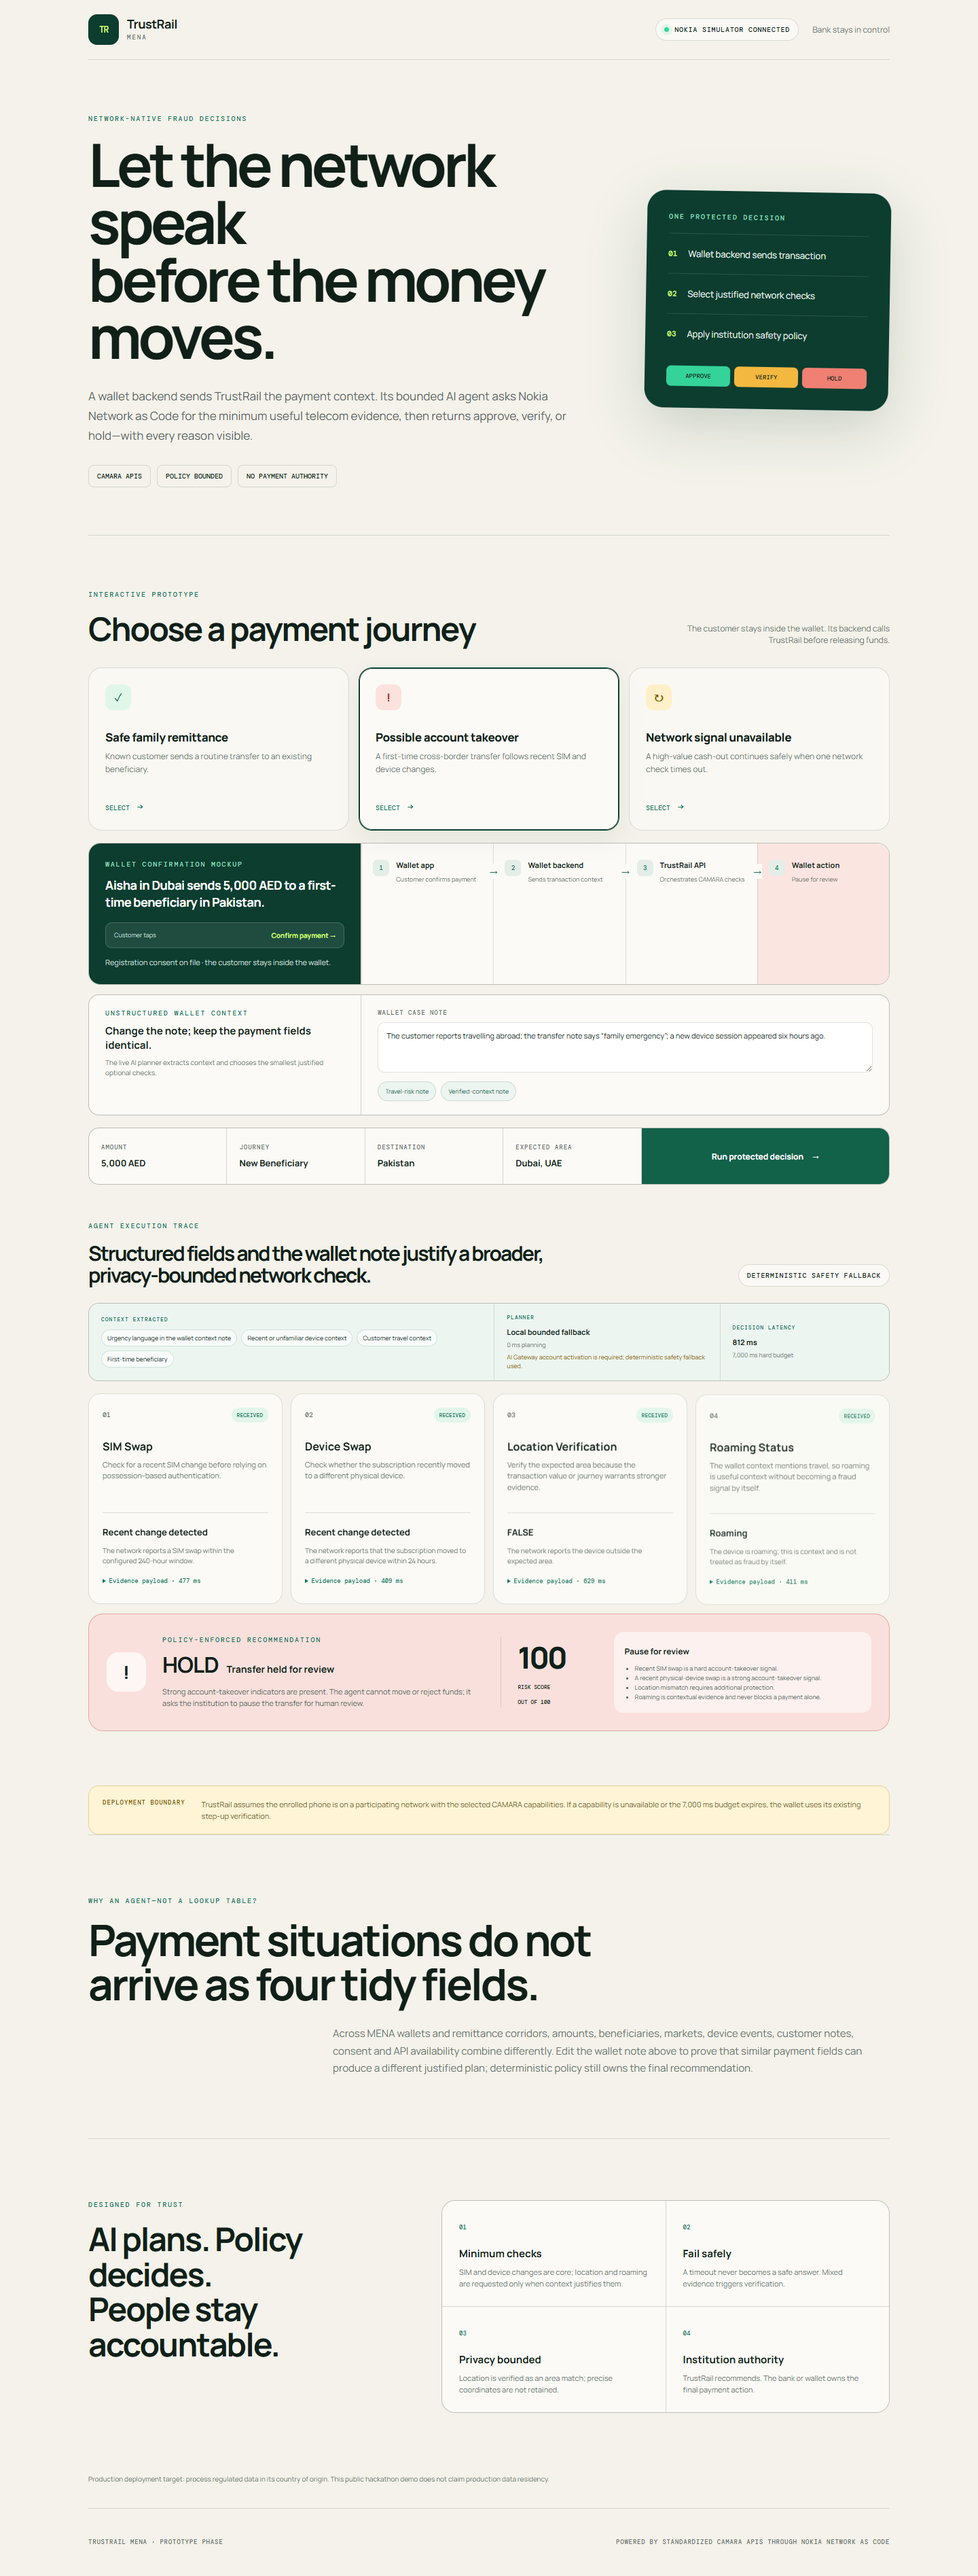
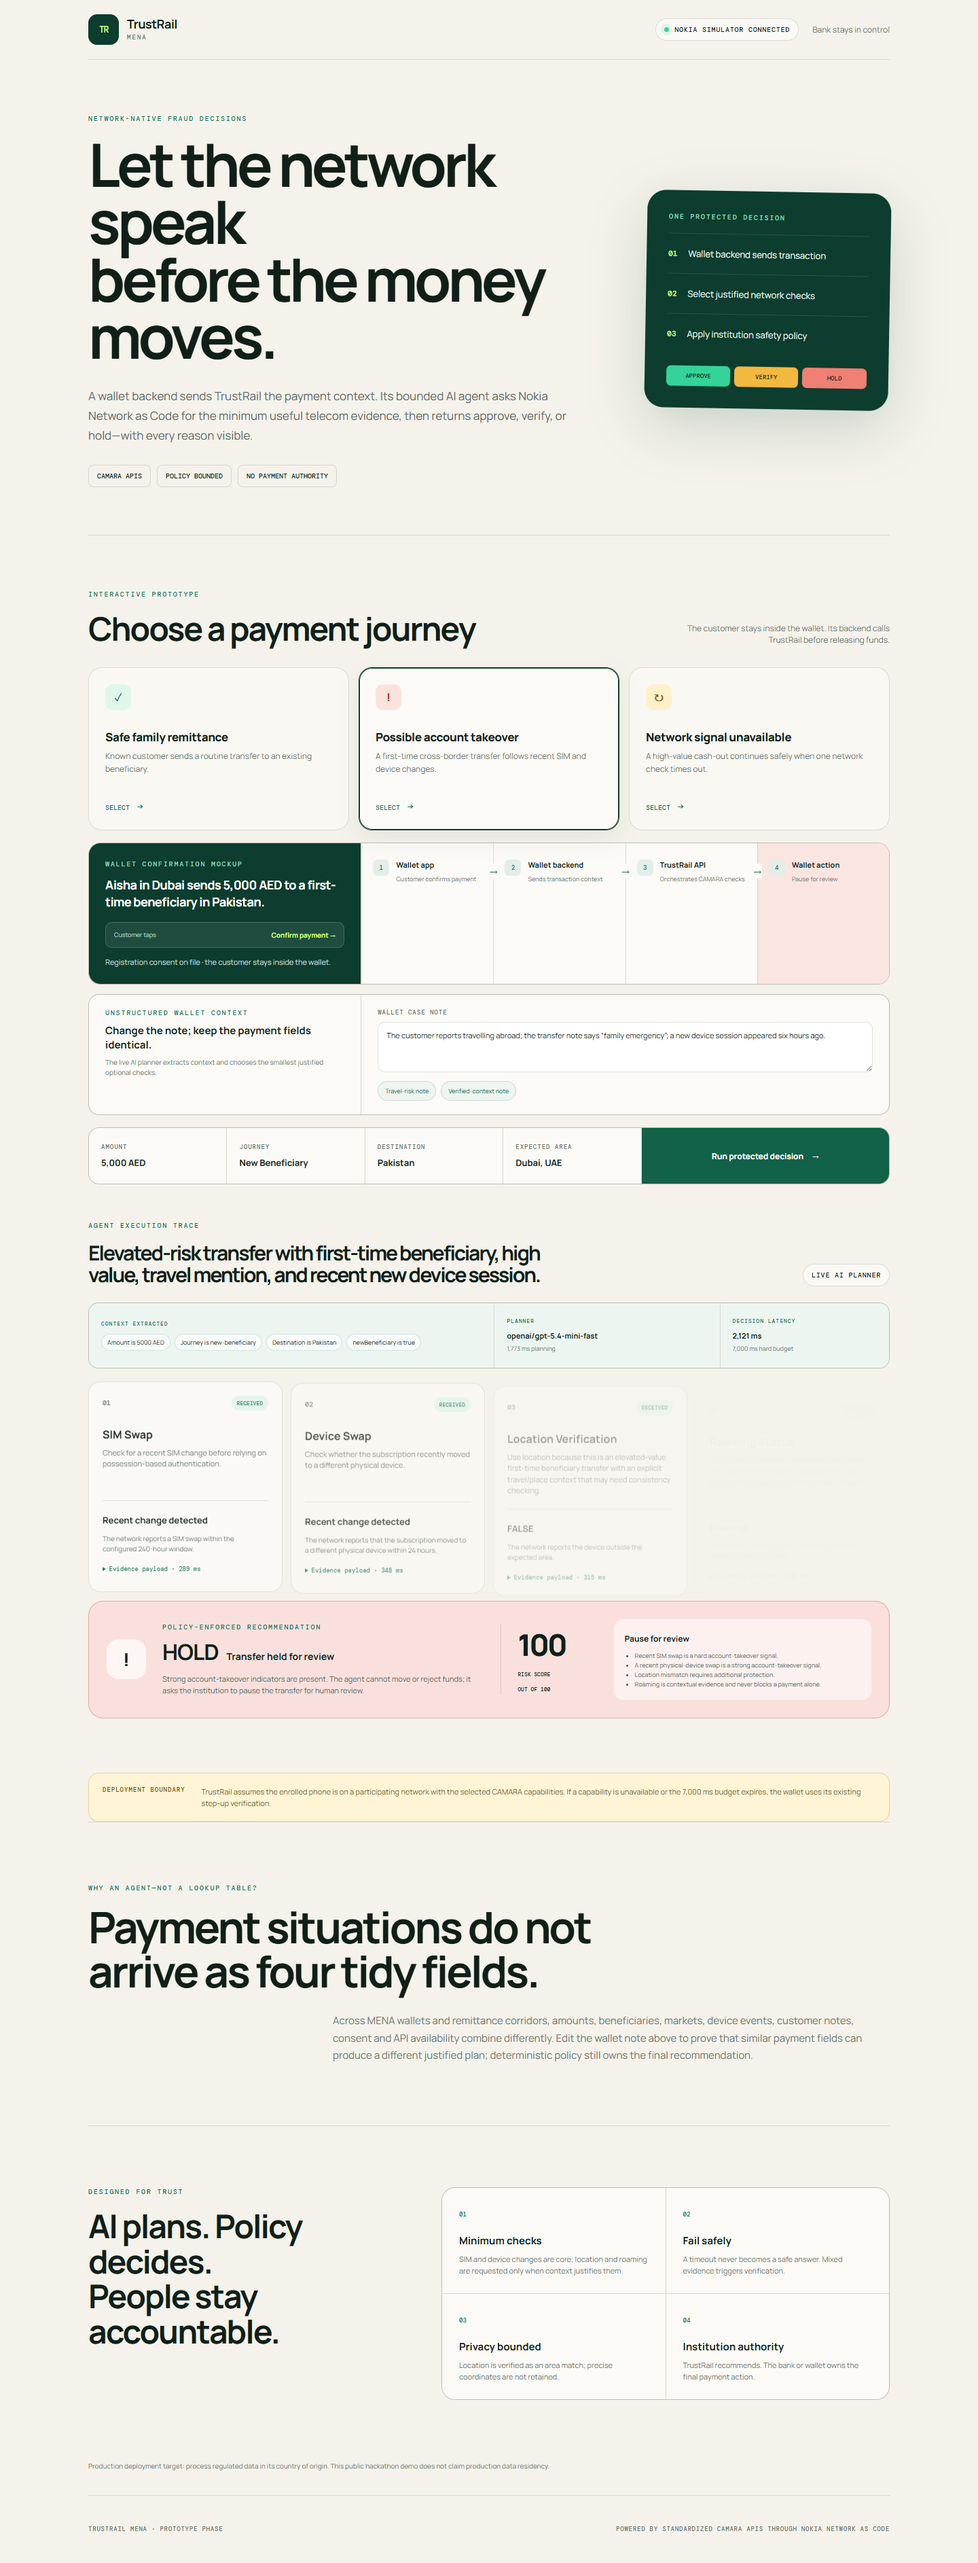
Activate and harden live AI planning

diff --git a/server/planner.ts b/server/planner.ts
@@ -5,17 +5,17 @@ const allowedTools = ["sim_swap", "device_swap", "location", "roaming"] as const
 const requiredTools = ["sim_swap", "device_swap"] as const;
 
 const planSchema = z.object({
-  summary: z.string().min(10).max(220),
-  contextSignals: z.array(z.string().min(3).max(100)).min(1).max(4),
+  summary: z.string().min(1),
+  contextSignals: z.array(z.string().min(1)).min(1).max(20),
   items: z
     .array(
       z.object({
-        tool: z.enum(allowedTools),
-        reason: z.string().min(8).max(180),
+        tool: z.string().min(1),
+        reason: z.string().min(1),
       }),
     )
     .min(1)
-    .max(4),
+    .max(20),
 });
 
 function detectContextSignals(scenario: DemoScenario): string[] {
@@ -96,6 +96,26 @@ function getPlannerConfiguration(requestOidcToken?: string) {
   };
 }
 
+function safePlannerFailure(error: unknown): string {
+  const message = error instanceof Error ? error.message : "Unknown planner failure";
+  if (/(?:http 403|valid credit card|unlock your free credits)/i.test(message)) {
+    return "AI Gateway account activation is required; deterministic safety fallback used.";
+  }
+  if (/(?:http 429|rate.?limit)/i.test(message)) {
+    return "AI Gateway temporarily rate-limited the planner; deterministic safety fallback used.";
+  }
+  if (/http 400/i.test(message)) {
+    return "AI Gateway rejected the planner request; deterministic safety fallback used.";
+  }
+  if (error instanceof z.ZodError || error instanceof SyntaxError) {
+    return "AI planner returned an invalid plan; deterministic safety fallback used.";
+  }
+  if (error instanceof Error && error.name === "TimeoutError") {
+    return "AI planner exceeded its 2,500 ms limit.";
+  }
+  return message.slice(0, 280);
+}
+
 export function getPlannerMode(requestOidcToken?: string): "bounded-policy-agent" | "llm-agent" {
   return getPlannerConfiguration(requestOidcToken).apiKey ? "llm-agent" : "bounded-policy-agent";
 }
@@ -121,7 +141,7 @@ async function llmPlan(
       model,
       temperature: 0,
       max_completion_tokens: 400,
-      reasoning_effort: "minimal",
+      reasoning_effort: "none",
       response_format: { type: "json_object" },
       messages: [
         {
@@ -143,9 +163,14 @@ async function llmPlan(
   const content = payload.choices?.[0]?.message?.content;
   if (!content) throw new Error("Planner returned no structured content");
   const parsed = planSchema.parse(JSON.parse(content));
+  const allowedItems: ToolPlanItem[] = parsed.items
+    .filter((item): item is { tool: NetworkTool; reason: string } => isAllowedTool(item.tool))
+    .map((item) => ({ tool: item.tool, reason: item.reason.slice(0, 180) }));
 
   return {
-    ...parsed,
+    summary: parsed.summary.slice(0, 220),
+    contextSignals: parsed.contextSignals.slice(0, 4).map((signal) => signal.slice(0, 100)),
+    items: allowedItems,
     planner: "llm-agent",
     model,
     latencyMs: Math.round(performance.now() - started),
@@ -162,16 +187,9 @@ export async function createAgentPlan(
     return enforcePlannerBounds(plan);
   } catch (error) {
     const fallback = boundedPlan(scenario);
-    const message = error instanceof Error ? error.message : "Unknown planner failure";
-    const activationRequired = /(?:http 403|valid credit card|unlock your free credits)/i.test(message);
     return {
       ...fallback,
-      fallbackReason:
-        activationRequired
-          ? "AI Gateway account activation is required; deterministic safety fallback used."
-          : error instanceof Error && error.name === "TimeoutError"
-          ? "AI planner exceeded its 2,500 ms limit."
-          : message.slice(0, 280),
+      fallbackReason: safePlannerFailure(error),
     };
   }
 }

diff --git a/tests/planner.test.ts b/tests/planner.test.ts
@@ -1,8 +1,13 @@
-import { describe, expect, it } from "vitest";
+import { afterEach, describe, expect, it, vi } from "vitest";
 import { createAgentPlan } from "../server/planner.js";
 import { getScenario } from "../server/scenarios.js";
 
 describe("TrustRail context planning", () => {
+  afterEach(() => {
+    vi.unstubAllEnvs();
+    vi.unstubAllGlobals();
+  });
+
   it("changes optional checks when only the unstructured travel context changes", async () => {
     const base = getScenario("account-takeover")!;
     const verifiedContext = {
@@ -25,5 +30,38 @@ describe("TrustRail context planning", () => {
 
     expect(verifiedPlan.items.map((item) => item.tool)).toEqual(["sim_swap", "device_swap", "location"]);
     expect(travelPlan.items.map((item) => item.tool)).toEqual(["sim_swap", "device_swap", "location", "roaming"]);
+  });
+
+  it("keeps an LLM plan bounded while trimming verbose display content", async () => {
+    vi.stubEnv("AI_API_KEY", "test-key");
+    vi.stubGlobal(
+      "fetch",
+      vi.fn(async () =>
+        new Response(
+          JSON.stringify({
+            choices: [{
+              message: {
+                content: JSON.stringify({
+                  summary: "S".repeat(300),
+                  contextSignals: ["one", "two", "three", "four", "five"],
+                  items: [
+                    { tool: "location", reason: "L".repeat(240) },
+                    { tool: "unknown_tool", reason: "This tool must be discarded." },
+                  ],
+                }),
+              },
+            }],
+          }),
+          { status: 200, headers: { "content-type": "application/json" } },
+        )),
+    );
+
+    const plan = await createAgentPlan(getScenario("account-takeover")!, new AbortController().signal);
+
+    expect(plan.planner).toBe("llm-agent");
+    expect(plan.summary).toHaveLength(220);
+    expect(plan.contextSignals).toEqual(["one", "two", "three", "four"]);
+    expect(plan.items.map((item) => item.tool)).toEqual(["sim_swap", "device_swap", "location"]);
+    expect(plan.items[2].reason).toHaveLength(180);
   });
 });

diff --git a/README.md b/README.md
@@ -10,7 +10,7 @@ The interface always displays its actual runtime mode. `Nokia simulator connecte
 ## What the prototype demonstrates
 
 - Real Nokia Network as Code simulator calls for SIM Swap, Device Swap, Location Verification, and Roaming Status.
-- A deployed GPT-5.4 Mini Fast planner path through Vercel AI Gateway OIDC, with a bounded deterministic fallback whenever the gateway is unavailable or not activated.
+- A live GPT-5.4 Mini Fast planner through Vercel AI Gateway OIDC, with a bounded deterministic fallback whenever the gateway is unavailable or rate-limited.
 - Editable unstructured wallet context that can change optional API selection while payment fields stay identical.
 - Deterministic safety rules that the AI cannot override.
 - Parallel network checks, one transient retry, and a visible 7-second end-to-end decision budget.
